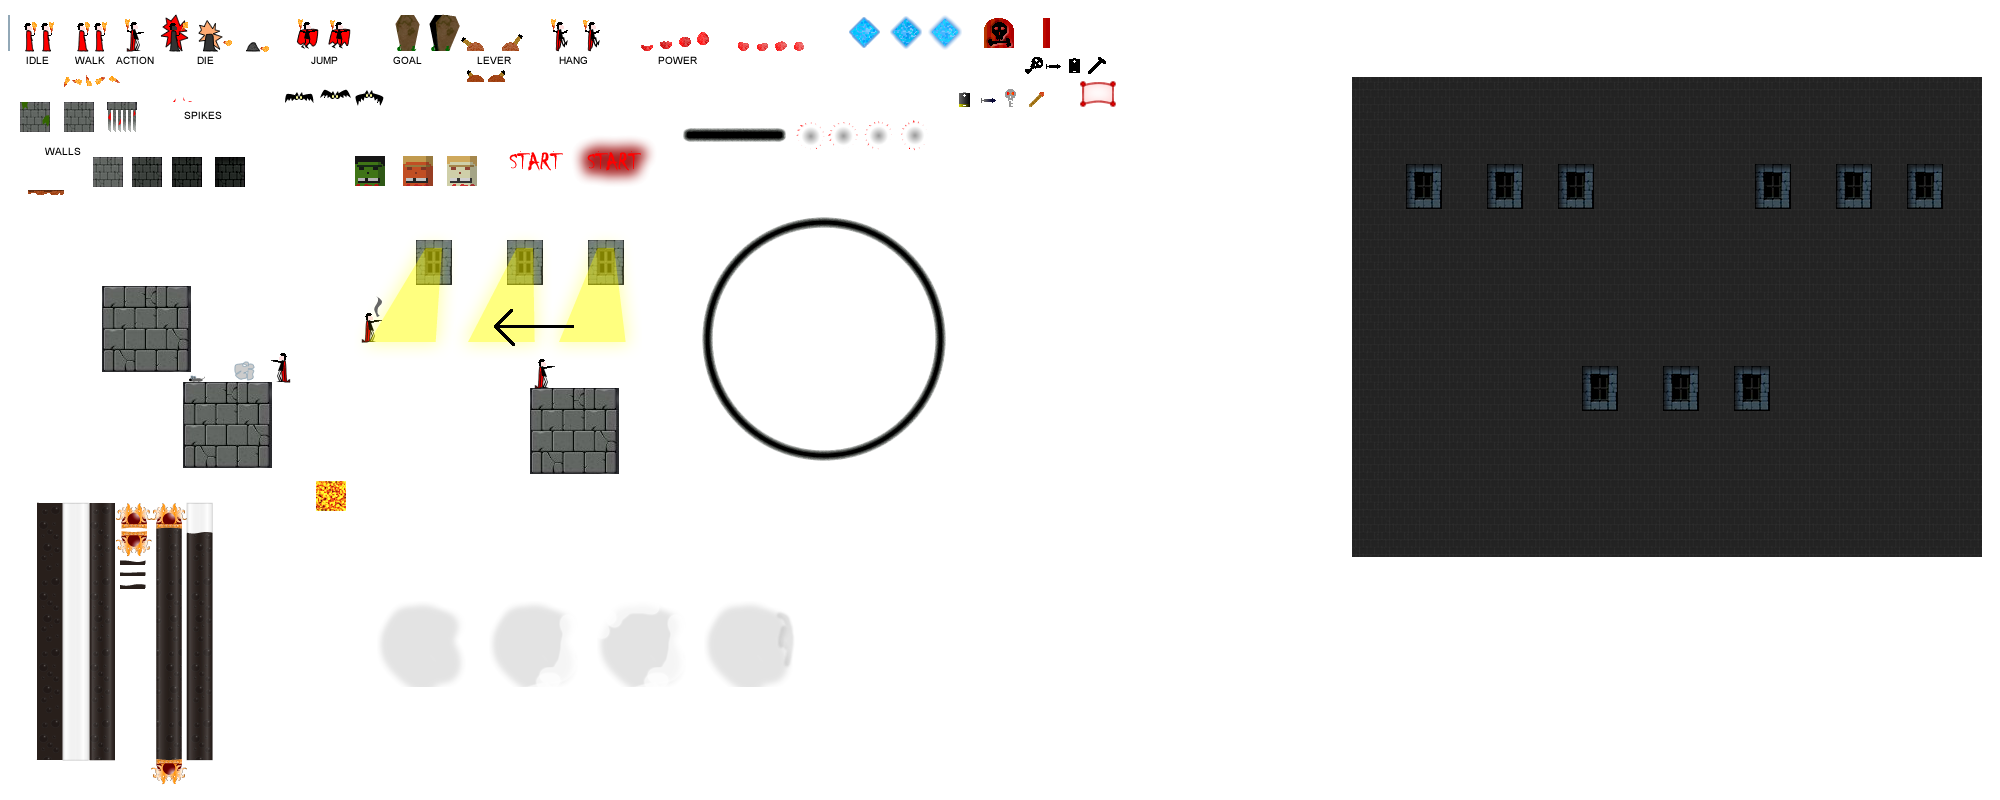
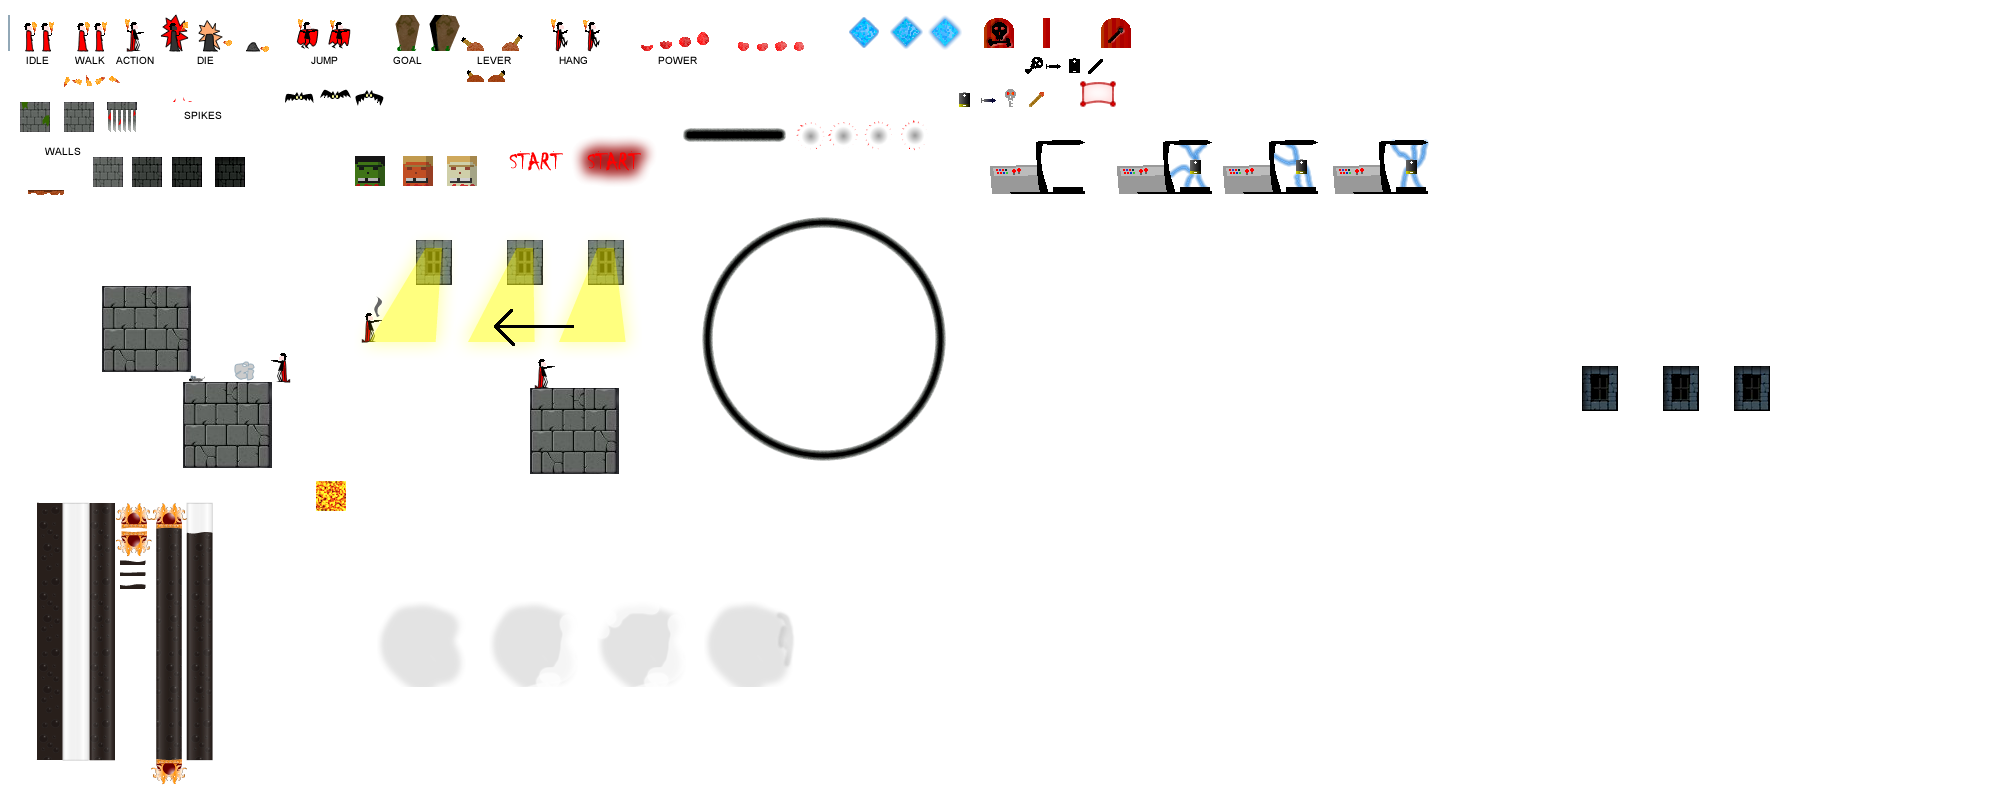
More DI

Changed region(s): [[0.496, 0.0938, 0.992, 0.7188], [0.527, 0.0312, 0.589, 0.0625], [0.434, 0.0312, 0.496, 0.0625]]

diff --git a/SampleGames/ShaculaV2/scripts/level.js b/SampleGames/ShaculaV2/scripts/level.js
@@ -87,7 +87,7 @@ var Levels = [
             { x: 578, y: 438, state: 0, wall: { x: 90, y: 330, width: 30, height: 30 },
                 otherActions: function () {
                     Levels[4].levers[0].state = 1;
-                } 
+                }
             }
         ],
         movableWalls: [],
@@ -148,11 +148,49 @@ var Levels = [
             {"x":510,"y":330,"width":60,"height":30},
             {"x":540,"y":360,"width":30,"height":30}
         ],
-        spikes: [ ],
-        bats: [ ],
-        blood: [ ],
+        spikes: [
+            { x: 60, y: 413, delay: 1.5 },
+            { x: 90, y: 413, delay: 1.5 },
+            { x: 120, y: 413, delay: 1.5 },
+            { x: 150, y: 413, delay: 1.5 },
+            { x: 180, y: 413, delay: 1.5 },
+            { x: 210, y: 413, delay: 1.5 },
+            { x: 240, y: 413, delay: 1.5 },
+            { x: 270, y: 413, delay: 1.5 },
+            { x: 300, y: 413, delay: 1.5 },
+            { x: 330, y: 413, delay: 1.5 },
+            { x: 360, y: 413, delay: 1.5 },
+            { x: 390, y: 413, delay: 1.5 },
+            { x: 420, y: 413, delay: 1.5 },
+            { x: 450, y: 413, delay: 1.5 }
+        ],
+        bats: [
+            {x: 250, y: 330, max: 100, upDown: false, speed: 0.03 },
+        ],
+        blood: [
+            { x: 510, y: 380, isActive: true }
+        ],
         fallingWalls: [],
-        levers: [],
+        levers: [
+            { x: -30, y: -30, state: 0, walls: [
+                { x: 30, y: 240, width: 30, height: 30 },
+                { x: 60, y: 240, width: 30, height: 30 },
+                { x: 90, y: 240, width: 30, height: 30 },
+                { x: 120, y: 240, width: 30, height: 30 },
+                { x: 150, y: 240, width: 30, height: 30 },
+                { x: 180, y: 240, width: 30, height: 30 },
+                { x: 210, y: 240, width: 30, height: 30 },
+                { x: 240, y: 240, width: 30, height: 30 },
+                { x: 330, y: 240, width: 30, height: 30 },
+                { x: 360, y: 240, width: 30, height: 30 },
+                { x: 390, y: 240, width: 30, height: 30 },
+                { x: 420, y: 240, width: 30, height: 30 },
+                { x: 450, y: 240, width: 30, height: 30 },
+                { x: 480, y: 240, width: 30, height: 30 },
+                { x: 510, y: 240, width: 30, height: 30 },
+                { x: 540, y: 240, width: 30, height: 30 }] 
+            }
+        ],
         movableWalls: [],
         exit: [ 
             { x: 0, y: 360, width: 3, height: 60, goTo: 2, showsAt: { x: 602, y: 389 } },
@@ -175,15 +213,29 @@ var Levels = [
             {"x":390,"y":355,"width":60,"height":5},
             {"x":480,"y":210,"width":60,"height":5}
         ],
-        spikes: [ ],
-        bats: [ ],
-        blood: [ ],
+        spikes: [
+            { x: 360, y: 443, delay: 1.5 },
+            { x: 390, y: 443, delay: 1.7 },
+            { x: 420, y: 443, delay: 1.2 },
+            { x: 450, y: 443, delay: 1.1 },
+            { x: 480, y: 443, delay: 1.3 },
+            { x: 510, y: 443, delay: 1.3 },
+            { x: 540, y: 443, delay: 1.3 },
+            { x: 570, y: 443, delay: 1.3 }
+        ],
+        bats: [ 
+            {x: 555, y: 210, max: 80, upDown: true, speed: 0.02 }
+        ],
+        blood: [
+            { x: 570, y: 400, isActive: true }
+        ],
         fallingWalls: [
             { x: 200, y: 300, fallSpeed: 1.5 }
         ],
         levers: [
             { x: -20, y: -20, state: 0, wall: { x: 30, y: 400, width: 30, height: 30 } }
         ],
+        stakeDoor: { x: 450, y: 300, width: 30, height: 30 },
         coffin: { x: 500, y: 175 },
         movableWalls: [],
         exit: [ 
@@ -334,6 +386,7 @@ var Levels = [
         ],
         levers: [],
         movableWalls: [],
+        batteryContainer: { x: 40, y: 396, width: 95, height: 54 },
         skeletonDoor: { x: 210, y: 420, width: 30, height: 30 },
         exit: [ 
             { x: 628, y: 60, width: 2, height: 270, goTo: 7, showsAt: { x: 10, y: 260 } } 

diff --git a/SampleGames/ShaculaV2/index.html b/SampleGames/ShaculaV2/index.html
@@ -32,6 +32,8 @@
     <script language="Javascript" src="scripts/saw.js"></script>
 	<script language="Javascript" src="scripts/portal.js"></script>
 	<script language="Javascript" src="scripts/skeletonDoor.js"></script>
+	<script language="Javascript" src="scripts/stakeDoor.js"></script>
+	<script language="Javascript" src="scripts/batteryContainer.js"></script>
 	<script language="Javascript" src="scripts/itemContainer.js"></script>
 	<script language="Javascript" src="scripts/inGameItem.js"></script>
 	
@@ -64,7 +66,7 @@
         }
 		
 		var GLOBAL = {
-            currentLevel: 4,
+            currentLevel: 3,
             maxOil: 500, 
             lightOil: 100,
             minRadiusLight: 50,
@@ -110,6 +112,14 @@
 					jsGFwk.Sprites.createSprite({id: "skeletonDoor", 
 						graphic: jsGFwk.ResourceManager.graphics.all.image,
 						top: 18, left: 984, width: 30, height: 30});
+
+					jsGFwk.Sprites.createSprite({id: "stakeDoor", 
+						graphic: jsGFwk.ResourceManager.graphics.all.image,
+						top: 18, left: 1101, width: 30, height: 30});
+
+					jsGFwk.Sprites.createSprite({id: "batteryContainer", 
+						graphic: jsGFwk.ResourceManager.graphics.all.image,
+						top: 140, left: 990, width: 95, height: 54});
 
 					jsGFwk.Sprites.createSprite({id: "openDoor", 
 						graphic: jsGFwk.ResourceManager.graphics.all.image,
@@ -238,6 +248,12 @@
 						 {left: 1045, top: 57, width: 18, height: 17}]);
 					jsGFwk.Sprites.items.loop(false);
 
+                    jsGFwk.Sprites.createSpriteCollection("batteryAnim", jsGFwk.ResourceManager.graphics.all.image, 
+						[{left: 1117, top: 140, width: 95, height: 54},
+                         {left: 1223, top: 140, width: 95, height: 54},
+                         {left: 1333, top: 140, width: 95, height: 54}]);
+					jsGFwk.Sprites.batteryAnim.loop(true);
+
                     jsGFwk.Sprites.createSpriteCollection("inGameItems", jsGFwk.ResourceManager.graphics.all.image, 
 						[{left: 1027, top: 89, width: 18, height: 18},
                          {left: 1001, top: 89, width: 18, height: 18},
@@ -284,6 +300,7 @@
                             GLOBAL.batContainer, GLOBAL.fallingWallContainer,
                             GLOBAL.movableWallContainer,
                             Coffin, Portal, SkeletonDoor,
+							StakeDoor, BatteryContainer,
 							InGameItem, dracul, Light,
 							ItemContainer,
                             GLOBAL.exitContainer] });

diff --git a/SampleGames/ShaculaV2/scripts/batteryContainer.js b/SampleGames/ShaculaV2/scripts/batteryContainer.js
@@ -1,0 +1,41 @@
+var BatteryContainer = {
+    id: 'batteryContainer',
+    visible: true,
+    isCharged: false,
+    init: function () { 
+        jsGFwk.Sprites.batteryAnim.reset();        
+    },
+    update: function (delta) { 
+        if (this.visible) {
+            if (Levels[GLOBAL.currentLevel].batteryContainer !== undefined && !this.isCharged) {
+                if (jsGFwk.Collisions.areCollidingBy(dracul, 
+                    { 
+                        x: Levels[GLOBAL.currentLevel].batteryContainer.x,
+                        y: Levels[GLOBAL.currentLevel].batteryContainer.y,
+                        width: Levels[GLOBAL.currentLevel].batteryContainer.width,
+                        height: Levels[GLOBAL.currentLevel].batteryContainer.height
+                    }, 
+                    jsGFwk.Collisions.collidingModes.RECTANGLE)) {
+                    if (GLOBAL.item === 3) {
+                        this.isCharged = true;
+                        Levels[3].levers[0].state = 1;
+                        GLOBAL.item = 0;
+                    }
+                }
+            }
+
+            if (this.isCharged) {
+                jsGFwk.Sprites.batteryAnim.next();
+            }
+        }
+    },
+    draw: function (ctx) {
+        if (!this.isCharged) {
+            ctx.drawImage(jsGFwk.Sprites.batteryContainer.image,
+                Levels[GLOBAL.currentLevel].batteryContainer.x, Levels[GLOBAL.currentLevel].batteryContainer.y);
+        } else {
+            ctx.drawImage(jsGFwk.Sprites.batteryAnim.sprite.image,
+                Levels[GLOBAL.currentLevel].batteryContainer.x, Levels[GLOBAL.currentLevel].batteryContainer.y);
+        }
+    }
+};

diff --git a/SampleGames/ShaculaV2/scripts/dracul.js b/SampleGames/ShaculaV2/scripts/dracul.js
@@ -196,6 +196,21 @@ var dracul = {
                     }
             }
         }
+
+        if (!collide) {
+            if (Levels[GLOBAL.currentLevel].stakeDoor !== undefined && !StakeDoor.isOpen) {
+                if (jsGFwk.Collisions.areCollidingBy(whereToMove, 
+                        Levels[GLOBAL.currentLevel].stakeDoor,
+                        jsGFwk.Collisions.collidingModes.RECTANGLE)) {
+                            if (GLOBAL.item === 1) {
+                                StakeDoor.isOpen = true;
+                                collide = false;
+                            } else {
+                                collide = true;
+                            }
+                    }
+            }
+        }
         
         //if (!collide) {
         GLOBAL.leverContainer.eachCloned(function (item, event) {

diff --git a/SampleGames/ShaculaV2/scripts/stakeDoor.js b/SampleGames/ShaculaV2/scripts/stakeDoor.js
@@ -1,0 +1,16 @@
+var StakeDoor = {
+    id: 'stakeDoor',
+    visible: true,
+    isOpen: false,
+    init: function () { },
+    update: function (delta) { },
+    draw: function (ctx) {
+        if (!this.isOpen) {
+            ctx.drawImage(jsGFwk.Sprites.stakeDoor.image,
+                Levels[GLOBAL.currentLevel].stakeDoor.x, Levels[GLOBAL.currentLevel].stakeDoor.y);
+        } else {
+            ctx.drawImage(jsGFwk.Sprites.openDoor.image,
+                Levels[GLOBAL.currentLevel].stakeDoor.x, Levels[GLOBAL.currentLevel].stakeDoor.y);
+        }
+    }
+};

diff --git a/SampleGames/ShaculaV2/scripts/gameController.js b/SampleGames/ShaculaV2/scripts/gameController.js
@@ -68,6 +68,8 @@ var gameController = {
 
         Portal.visible = levelToCreate.portal !== undefined;
         SkeletonDoor.visible = levelToCreate.skeletonDoor !== undefined;
+        BatteryContainer.visible = levelToCreate.batteryContainer !== undefined;
+        StakeDoor.visible = levelToCreate.stakeDoor !== undefined;
         InGameItem.visible = levelToCreate.item !== undefined;
     },
     exitFromLevel: function (data) {
